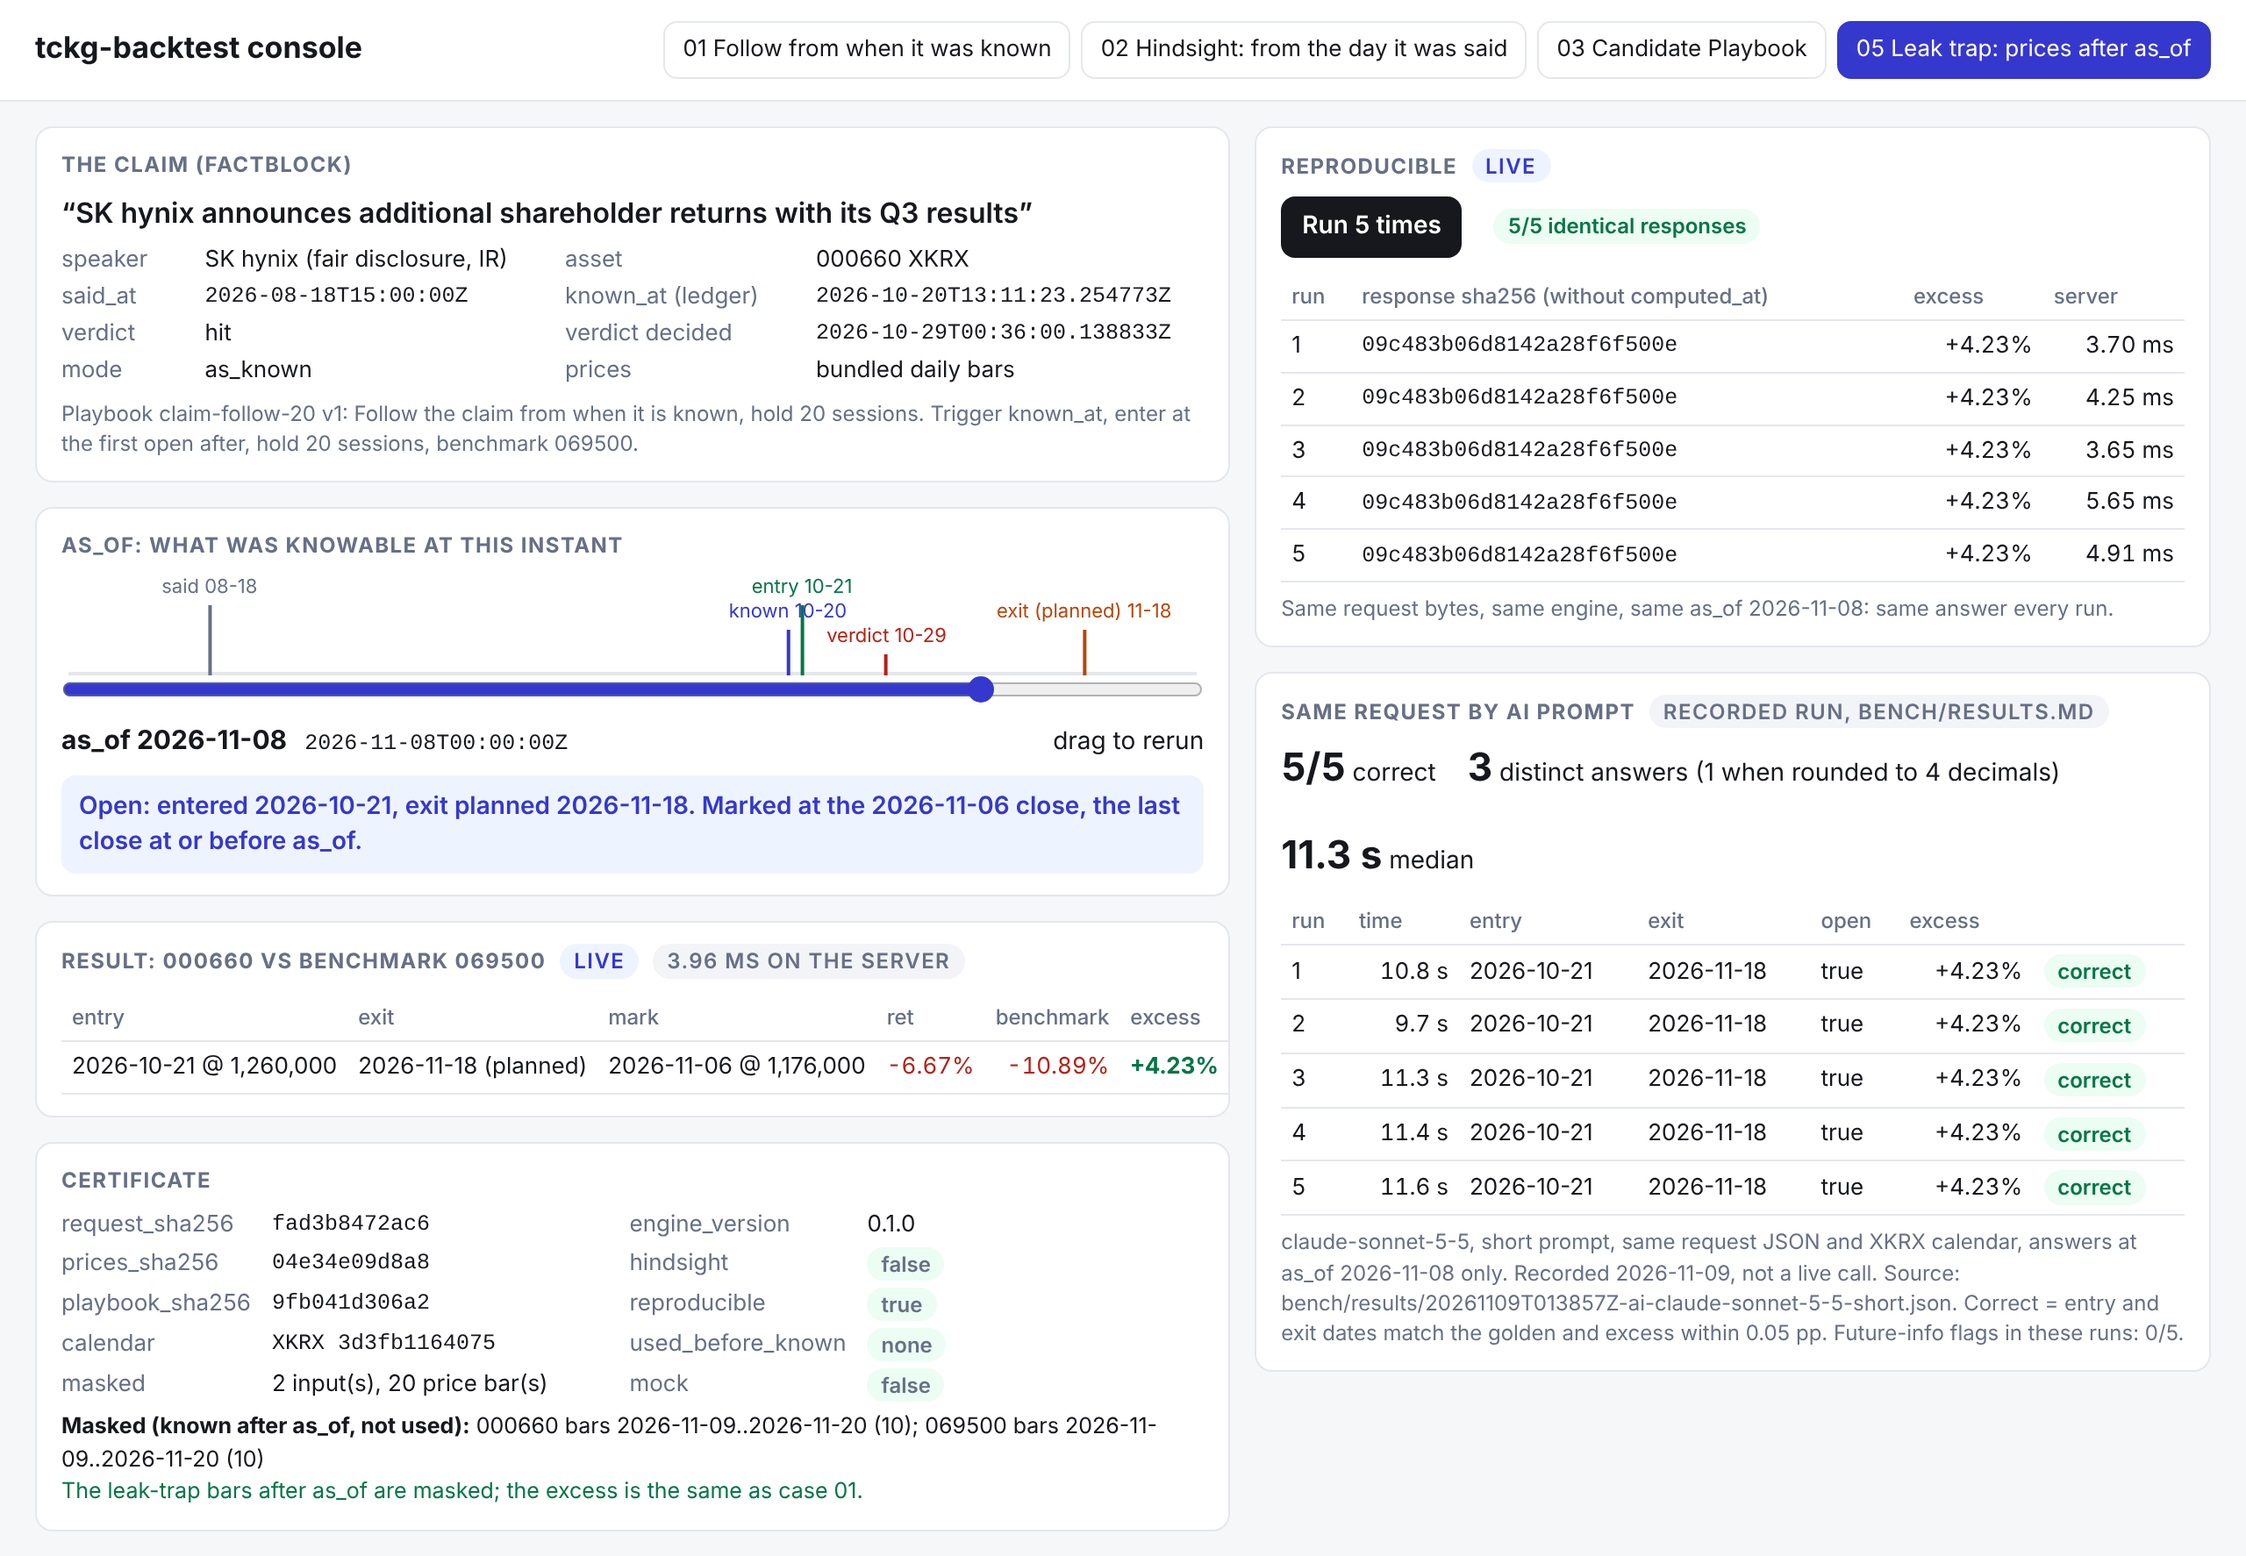
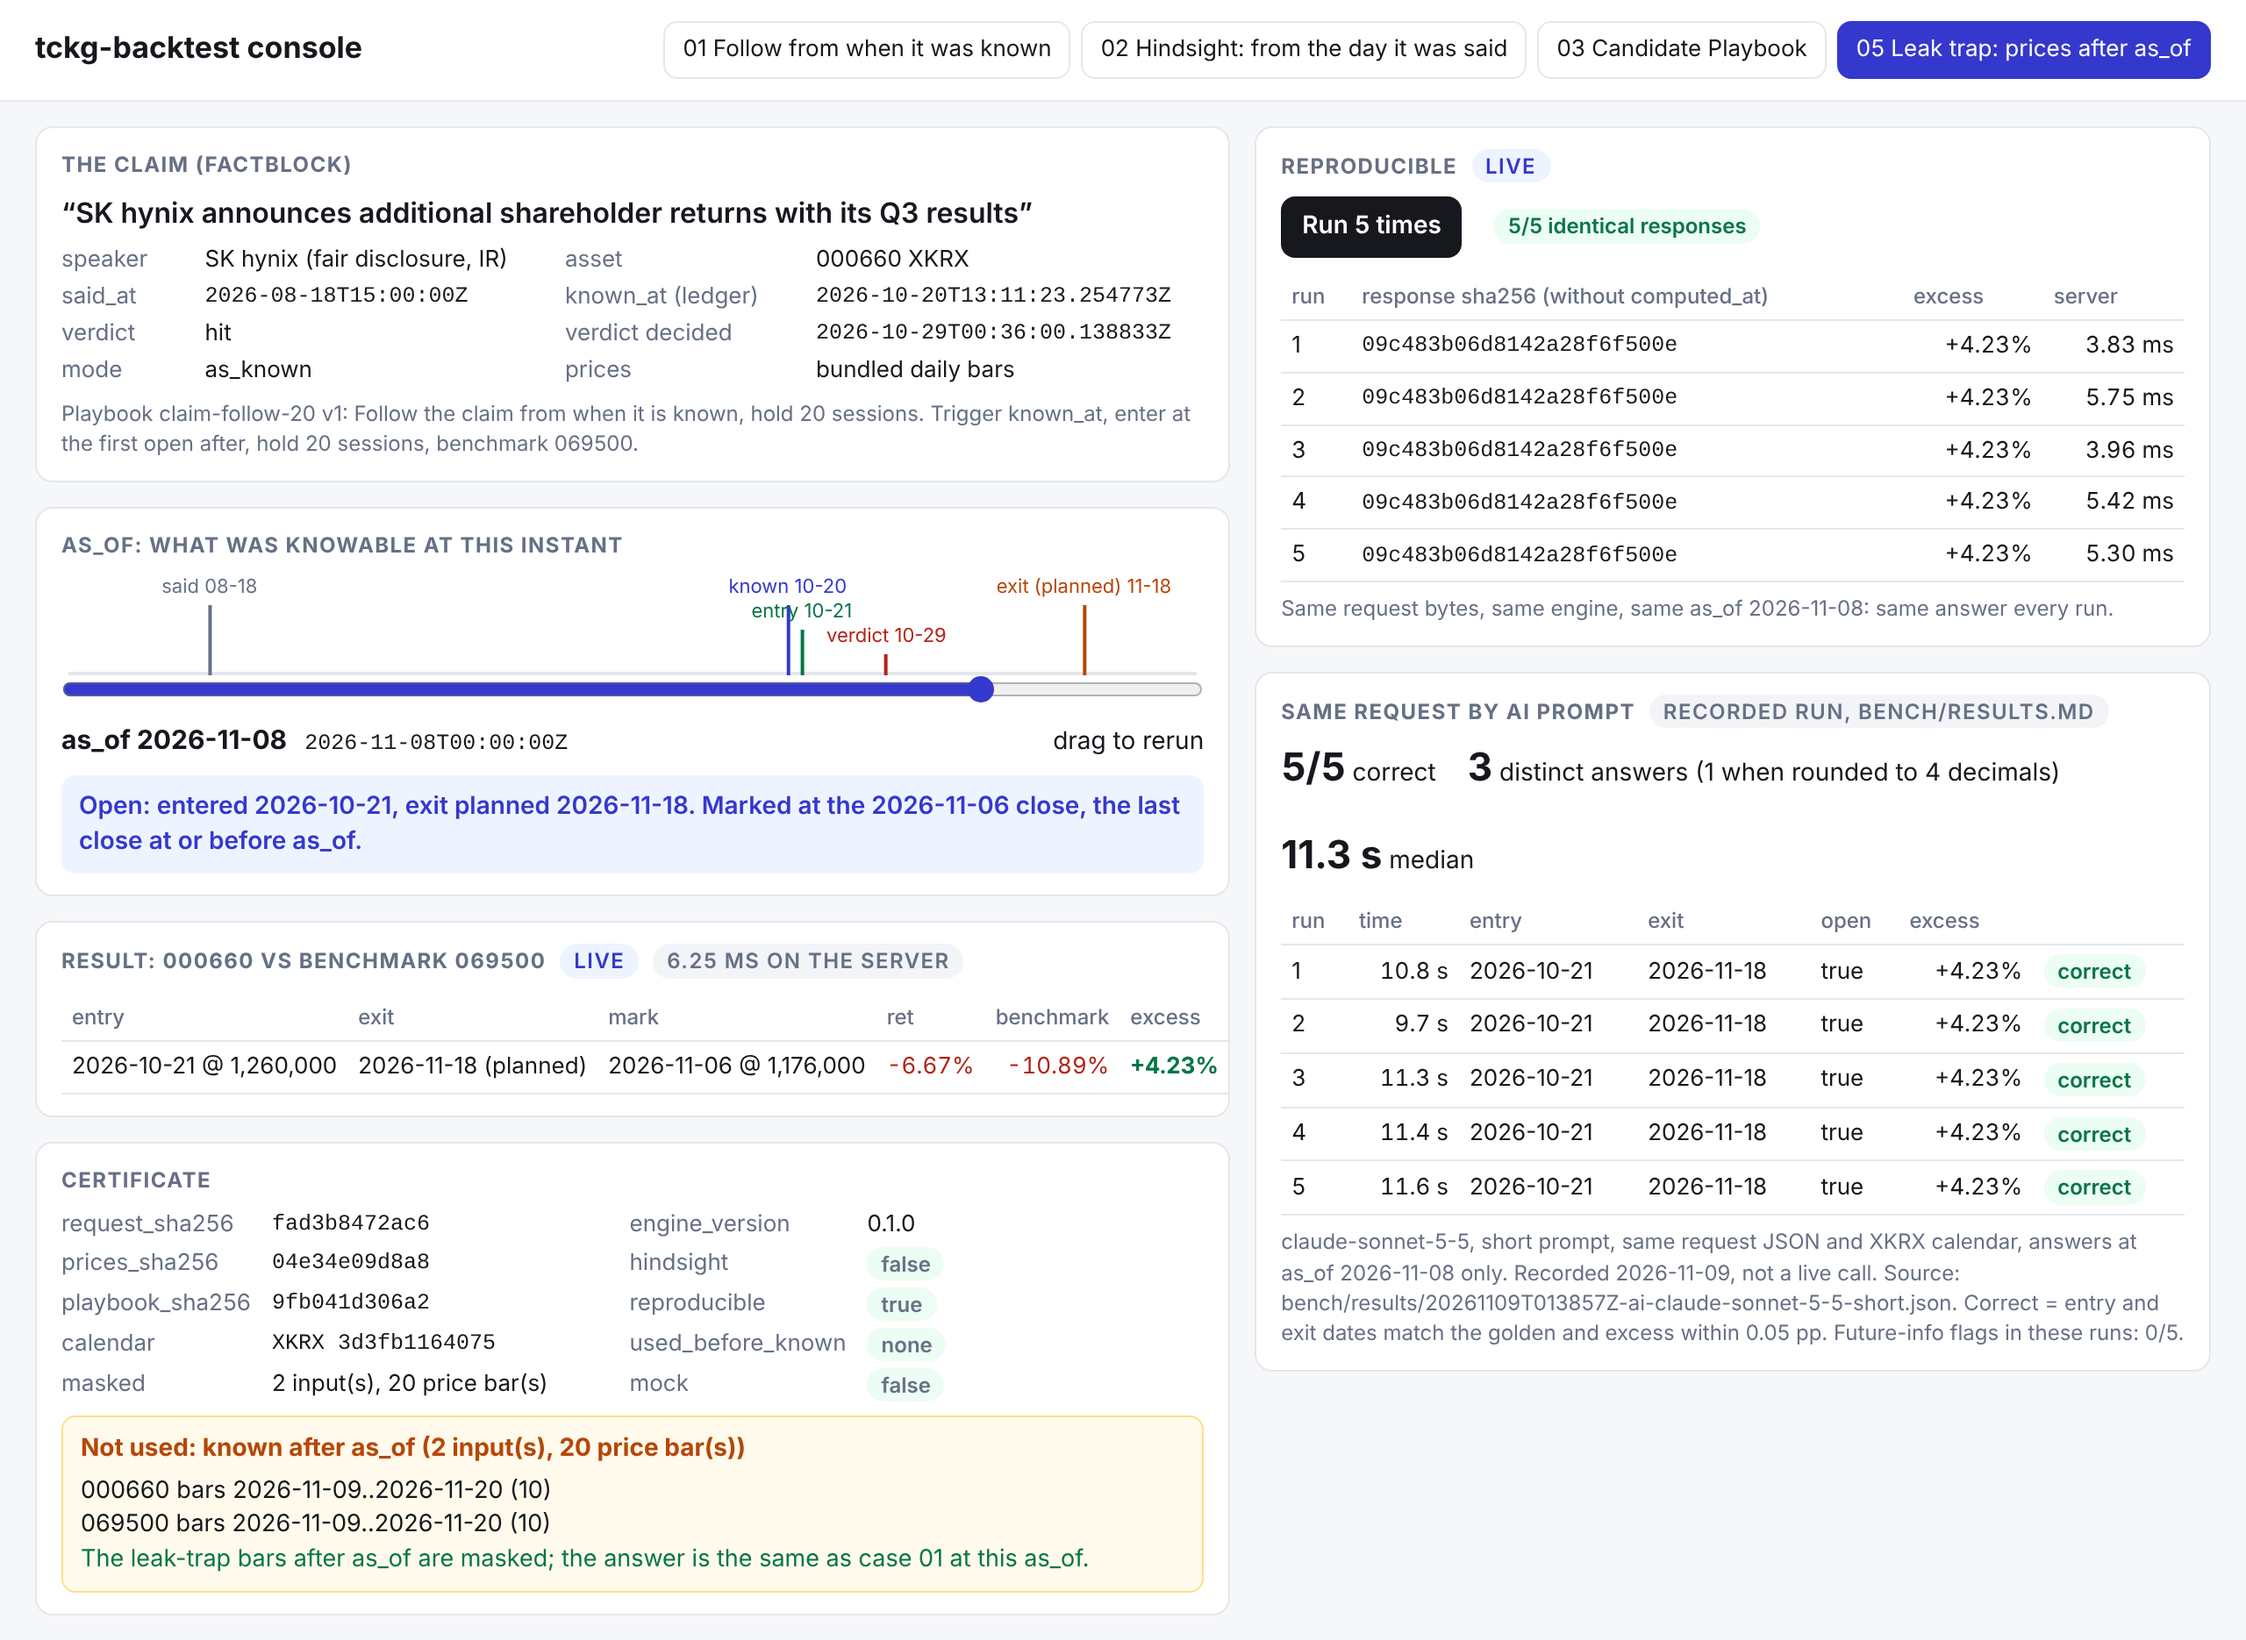
Console: stagger timeline labels, highlight masked inputs in the certificate

diff --git a/tckg_backtest/console.html b/tckg_backtest/console.html
@@ -45,7 +45,9 @@ td.n{text-align:right;font-variant-numeric:tabular-nums}
 .row{display:flex;gap:18px;align-items:baseline;flex-wrap:wrap}
 button.act{border:0;background:var(--ink);color:#fff;border-radius:8px;padding:7px 12px;font:inherit;font-weight:600;cursor:pointer}
 .note{color:var(--mute);font-size:12px;margin:6px 0 0}
-.masked{margin-top:6px;font-size:12.5px}
+.masked{margin-top:8px;font-size:12.5px}
+.masked.hit{background:var(--warnbg);border:1px solid #fedf89;border-radius:8px;padding:8px 10px;font-size:13.5px}
+.masked.hit h3{margin:0 0 4px;font-size:14px;color:var(--warn)}
 </style>
 </head>
 <body>
@@ -136,10 +138,15 @@ function marks(resp) {
   if (fb.verdict) m.push(["verdict", fb.verdict.decided_at, "n"]);
   const t = resp && resp.trades && resp.trades[0];
   if (t) { m.push(["entry", t.entry.date, "e"]); m.push([t.exit.planned ? "exit (planned)" : "exit", t.exit.date, "x"]); }
-  const n = INFO.sessions.length - 1;
-  $("tl").innerHTML = '<div class="axis"></div>' + m.map(([l, d, k], j) => {
-    const left = (sessionIdx(d) / n * 100).toFixed(2);
-    return `<div class="mk ${k}" style="left:${left}%;top:${(j % 3) * 14}px;height:${58 - (j % 3) * 14}px">${l} ${day(d).slice(5)}<i></i></div>`;
+  const n = INFO.sessions.length - 1, w = $("tl").clientWidth, ends = [-1e9, -1e9, -1e9];
+  // stagger labels: each goes on the first row where it does not touch the previous label (6.5 px per char estimate)
+  const items = m.map(([l, d, k]) => ({k, text: `${l} ${day(d).slice(5)}`, x: sessionIdx(d) / n * w})).sort((a, b) => a.x - b.x);
+  $("tl").innerHTML = '<div class="axis"></div>' + items.map(it => {
+    const half = it.text.length * 3.25 + 4;
+    let row = ends.findIndex(e => e < it.x - half);
+    if (row < 0) row = ends.indexOf(Math.min(...ends));
+    ends[row] = it.x + half;
+    return `<div class="mk ${it.k}" style="left:${it.x.toFixed(1)}px;top:${row * 14}px;height:${58 - row * 14}px">${it.text}<i></i></div>`;
   }).join("");
 }
 
@@ -178,9 +185,10 @@ function drawResult(out) {
     ["calendar", c.calendar.id + " " + short(c.calendar.sha256)], ["used_before_known", c.used_before_known.length ? `<span class="pill p-bad">${c.used_before_known.length}</span>` : '<span class="pill p-ok">none</span>'],
     ["masked", `${c.masked.length} input(s), ${nBars} price bar(s)`], ["mock", yes(c.mock, false)]]
     .map(([k, v]) => `<span>${k}</span><span class="${k.endsWith("sha256") || k === "calendar" ? "mono" : ""}">${v}</span>`).join("");
-  $("masked").innerHTML = c.masked.length ? "<b>Masked (known after as_of, not used):</b> " + c.masked.map(m => m.input === "prices.bars"
-      ? `${m.symbol} bars ${m.from}..${m.to} (${m.count})` : `${m.input} (known ${day(m.known_at)})`).join("; ")
-      + (CASE === "05" && nBars ? `<br><span class="pos">The leak-trap bars after as_of are masked; the excess is the same as case 01.</span>` : "")
+  $("masked").className = "masked" + (c.masked.length ? " hit" : "");
+  $("masked").innerHTML = c.masked.length ? `<h3>Not used: known after as_of (${c.masked.length} input(s), ${nBars} price bar(s))</h3>` + c.masked.map(m => m.input === "prices.bars"
+      ? `${m.symbol} bars ${m.from}..${m.to} (${m.count})` : `${m.input} (known ${day(m.known_at)})`).join("<br>")
+      + (CASE === "05" && nBars ? `<br><span class="pos">The leak-trap bars after as_of are masked; the answer is the same as case 01 at this as_of.</span>` : "")
     : "Masked: nothing. Every input was known at as_of.";
 }
 
